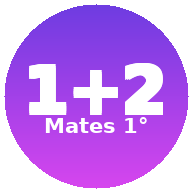
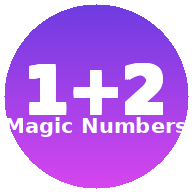
Add files via upload

Changed region(s): [[0.0312, 0.5938, 0.9688, 0.7188]]

diff --git a/index.html b/index.html
@@ -7,7 +7,7 @@
   <meta name="apple-mobile-web-app-capable" content="yes">
   <meta name="apple-mobile-web-app-status-bar-style" content="black-translucent">
   <meta name="description" content="Práctica interactiva de matemáticas para primer grado">
-  <title>Mates Primer Grado</title>
+  <title>Magic Numbers</title>
   <link rel="manifest" href="manifest.json">
   <link rel="icon" href="icon-192.png">
   <link rel="apple-touch-icon" href="icon-192.png">
@@ -430,7 +430,7 @@
         <div style={{minHeight:"100vh",background:`linear-gradient(170deg,${C.bg} 0%,#F0E6FF 40%,#E6F7F4 70%,${C.lit} 100%)`,fontFamily:FONT}}>
           <div style={{background:`linear-gradient(135deg,${C.pri},#D946EF,${C.sec})`,padding:"32px 20px 28px",borderRadius:"0 0 36px 36px",boxShadow:`0 10px 40px ${C.pri}33`,textAlign:"center"}}>
             <div style={{fontSize:48,marginBottom:4}}>🔢</div>
-            <h1 style={{fontSize:28,fontWeight:700,color:C.wht,margin:0,textShadow:"0 2px 10px rgba(0,0,0,0.15)"}}>Mates Primer Grado</h1>
+            <h1 style={{fontSize:28,fontWeight:700,color:C.wht,margin:0,textShadow:"0 2px 10px rgba(0,0,0,0.15)"}}>Magic Numbers</h1>
             <p style={{color:"#ffffffcc",fontSize:14,marginTop:4,fontWeight:500}}>Material de apoyo extra para practicar en casa</p>
           </div>
           <div style={{padding:"20px 14px 40px",display:"grid",gridTemplateColumns:"repeat(auto-fill,minmax(160px,1fr))",gap:14}}>

diff --git a/sw.js b/sw.js
@@ -1,4 +1,4 @@
-const CACHE_NAME = 'mates-1grado-v1';
+const CACHE_NAME = 'magic-numbers-v1';
 const ASSETS = [
   './',
   './index.html',
